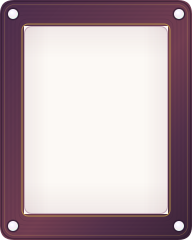
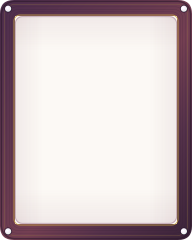
fix(cards): 边框瘦身——紫檀 12.5% → 7.8% 牌宽
试玩反馈「边太厚,看久了不高级,反而笨重」。纯缩放整张图会连字一起缩,
所以只收边框几何:内挖边界、描金线、五层木纹、四角螺钿一起按系数内移,
牌面留白相应变大。螺钿点半径也跟着收 —— 细边框压不住原尺寸的钿点。

设计原稿移入 card-refs/original/ 留档,assets/ 改为加工产物;
系数走 slim_card_frame.py --k,想再细或改回一句话的事。
比 6.2% 那档保守一格:再细下去螺钿几乎消失,紫檀的实木质感就没了。

CardFrames 的 9-slice border 与内容缩进随之下调(border 仍盖住 rx=12 圆角)。

Claude-Session: https://claude.ai/code/session_01BbPFfrf7mzvPQtpbh9RoKw

Changed region(s): [[0.0, 0.0, 1.0, 0.9917]]

diff --git a/tools/design/slim_card_frame.py b/tools/design/slim_card_frame.py
@@ -1,0 +1,116 @@
+#!/usr/bin/env python3
+"""字牌边框瘦身:把设计原稿的边框按系数收窄,产出实装用的 SVG。
+
+起因(2026-07-28 试玩反馈):紫檀框原稿的木框内挖边界在 24/26px(占牌宽 12.5%),
+「看久了不高级,反而笨重」。纯缩放整张图会连字一起缩,所以这里只收**边框几何**:
+内挖边界、描金线、木纹层、螺钿点一起按系数内移,牌面留白相应变大。
+
+用法:
+    python3 tools/design/slim_card_frame.py            # 默认 0.62(边框占 7.8%)
+    python3 tools/design/slim_card_frame.py --k 0.78   # 更厚一点
+
+输入: docs/design/card-refs/original/*.svg(设计原稿,只读)
+产出: docs/design/card-refs/assets/*.svg(实装稿,rasterize_cards.py 的输入)
+"""
+import argparse
+import re
+import sys
+from pathlib import Path
+
+ROOT = Path(__file__).resolve().parents[2]
+ORIGINAL = ROOT / "docs/design/card-refs/original"
+ASSETS = ROOT / "docs/design/card-refs/assets"
+
+W, H = 192, 240
+
+
+def slim_purple(svg: str, k: float) -> str:
+    """紫檀框:木框内挖 + 描金线 + 五层木纹 + 四角螺钿,全部按 k 内移。"""
+    ix, iy = round(24 * k), round(26 * k)
+    gx, gy = round(22 * k), round(24 * k)
+    lx, ly = 24 * k + 0.5, 26 * k + 0.5
+
+    svg = svg.replace("M24 26 V214 H168 V26", f"M{ix} {iy} V{H - iy} H{W - ix} V{iy}")
+    svg = svg.replace('x="24" y="26" width="144" height="188"',
+                      f'x="{ix}" y="{iy}" width="{W - 2 * ix}" height="{H - 2 * iy}"')
+    svg = svg.replace('x="24.5" y="26.5" width="143" height="187"',
+                      f'x="{lx}" y="{ly}" width="{W - 2 * lx}" height="{H - 2 * ly}"')
+    svg = svg.replace('x="22" y="24" width="148" height="192"',
+                      f'x="{gx}" y="{gy}" width="{W - 2 * gx}" height="{H - 2 * gy}"')
+
+    for x, w, h, r in [(3, 186, 234, 12), (7, 178, 226, 11), (11, 170, 218, 10),
+                       (15, 162, 210, 9), (19, 154, 202, 8)]:
+        nx = round(x * k, 1)
+        svg = svg.replace(f'x="{x}" y="{x}" width="{w}" height="{h}" rx="{r}"',
+                          f'x="{nx}" y="{nx}" width="{W - 2 * nx}" height="{H - 2 * nx}" rx="{r}"')
+
+    # 四角螺钿:圆心与半径同步内移缩小,否则细边框压不住原尺寸的钿点
+    def corner(match, cx_expr, cy_expr):
+        radius = round(float(match.group(1)) * k, 1)
+        return f'cx="{cx_expr}" cy="{cy_expr}" r="{radius}"'
+
+    cx, cy = round(13 * k, 1), round(14 * k, 1)
+    svg = re.sub(r'cx="13" cy="14" r="([\d.]+)"', lambda m: corner(m, cx, cy), svg)
+    svg = re.sub(r'cx="179" cy="14" r="([\d.]+)"', lambda m: corner(m, W - cx, cy), svg)
+    svg = re.sub(r'cx="13" cy="226" r="([\d.]+)"', lambda m: corner(m, cx, H - cy), svg)
+    svg = re.sub(r'cx="179" cy="226" r="([\d.]+)"', lambda m: corner(m, W - cx, H - cy), svg)
+    # 钿点高光
+    hx, hy = round(11.4 * k, 1), round(12.4 * k, 1)
+    svg = svg.replace('cx="11.4" cy="12.4"', f'cx="{hx}" cy="{hy}"')
+    svg = svg.replace('cx="177.4" cy="12.4"', f'cx="{W - round(14.6 * k, 1)}" cy="{hy}"')
+    svg = svg.replace('cx="11.4" cy="224.4"', f'cx="{hx}" cy="{H - round(15.6 * k, 1)}"')
+    svg = svg.replace('cx="177.4" cy="224.4"',
+                      f'cx="{W - round(14.6 * k, 1)}" cy="{H - round(15.6 * k, 1)}"')
+    return svg
+
+
+def slim_glow(svg: str, k: float) -> str:
+    n = round(23 * k)
+    return svg.replace('x="23" y="23" width="146" height="194"',
+                       f'x="{n}" y="{n}" width="{W - 2 * n}" height="{H - 2 * n}"')
+
+
+def slim_white(svg: str, k: float) -> str:
+    """素纸框本来就细(8.5px),按同一系数轻微内移即可。"""
+    for old, new in [(8.5, round(8.5 * k, 1)), (12.5, round(12.5 * k, 1))]:
+        svg = svg.replace(f'x="{old}" y="{old}"', f'x="{new}" y="{new}"')
+    svg = svg.replace('width="175" height="223"',
+                      f'width="{W - 2 * round(8.5 * k, 1)}" height="{H - 2 * round(8.5 * k, 1)}"')
+    svg = svg.replace('width="167" height="215"',
+                      f'width="{W - 2 * round(12.5 * k, 1)}" height="{H - 2 * round(12.5 * k, 1)}"')
+    return svg
+
+
+HANDLERS = {
+    "card_purple_frame.svg": slim_purple,
+    "card_purple_glow.svg": slim_glow,
+    "card_white_frame.svg": slim_white,
+}
+
+
+def main():
+    parser = argparse.ArgumentParser(description="字牌边框瘦身")
+    parser.add_argument("--k", type=float, default=0.62,
+                        help="收窄系数(1.0=原稿;0.62 → 边框占牌宽 7.8%%)")
+    args = parser.parse_args()
+
+    if not ORIGINAL.exists():
+        print(f"缺少原稿目录 {ORIGINAL.relative_to(ROOT)}", file=sys.stderr)
+        return 1
+
+    ASSETS.mkdir(parents=True, exist_ok=True)
+    count = 0
+    for name, handler in HANDLERS.items():
+        source = ORIGINAL / name
+        if not source.exists():
+            continue
+        (ASSETS / name).write_text(handler(source.read_text(), args.k), encoding="utf-8")
+        count += 1
+    print(f"瘦身 {count} 张(k={args.k},紫檀边框 {round(24 * args.k)}px = "
+          f"{round(24 * args.k) / W:.1%} 牌宽)→ {ASSETS.relative_to(ROOT)}")
+    print("接着跑 rasterize_cards.py 光栅化进 Unity")
+    return 0
+
+
+if __name__ == "__main__":
+    sys.exit(main())

diff --git a/Brushblade/Assets/_Project/Presentation/Cards/CardFrames.cs b/Brushblade/Assets/_Project/Presentation/Cards/CardFrames.cs
@@ -23,11 +23,13 @@ namespace Brushblade.Presentation
         };
 
         /// <summary>各档的 9-slice border(左/下/右/上,基准画布像素)与内容区缩进(占牌宽比例)。
-        /// border 要盖住圆角与边框装饰,否则拉伸会把四角拉花。</summary>
+        /// border 要盖住圆角(rx=12)与边框装饰,否则拉伸会把四角拉花。
+        /// 2026-07-28 随边框瘦身下调(试玩反馈「边太厚、笨重」):
+        /// 紫檀内挖 24→15px(12.5%→7.8% 牌宽),见 tools/design/slim_card_frame.py。</summary>
         private static readonly Dictionary<CardRarity, (Vector4 border, float insetX, float insetY)> Metrics = new()
         {
-            { CardRarity.White, (new Vector4(16, 16, 16, 16), 0.075f, 0.065f) },
-            { CardRarity.Purple, (new Vector4(24, 26, 24, 26), 0.135f, 0.120f) },
+            { CardRarity.White, (new Vector4(14, 14, 14, 14), 0.055f, 0.048f) },
+            { CardRarity.Purple, (new Vector4(15, 16, 15, 16), 0.095f, 0.085f) },
         };
 
         private static readonly Dictionary<string, Sprite> Cache = new();
